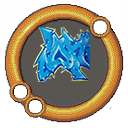
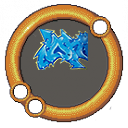
affiche score

Changed region(s): [[0.25, 0.1875, 0.7188, 0.6562]]

diff --git a/Java/src/pla/Jeu.java b/Java/src/pla/Jeu.java
@@ -39,6 +39,8 @@ public class Jeu extends BasicGameState {
 	private Image inventaire_bleu,inventaire_bleu_eau,inventaire_bleu_bombe,inventaire_bleu_bike,inventaire_bleu_eau_bike,inventaire_bleu_bombe_bike;
 	private Image score_rouge, score_bleu;
 	
+	int rouge_score, bleu_score;
+	String rouge_score1, bleu_score1;
 	//private static final int P_BAR_X = 15;
 	//private static final int P_BAR_Y = 25;
 
@@ -224,9 +226,18 @@ public class Jeu extends BasicGameState {
 		
 		//afficher score
 		if (gc.getInput().isKeyDown(Input.KEY_TAB)) {
-			g.resetTransform();  
+			g.resetTransform();
+			bleu_score=getPersonnageParType(TypePersonnage.BLEU).compterScore(map);
+			rouge_score=getPersonnageParType(TypePersonnage.ROUGE).compterScore(map);
+			bleu_score1=Integer.toString(bleu_score);
+			rouge_score1=Integer.toString(rouge_score);
 			g.drawImage(this.score_rouge, (gc.getWidth()/2)-80, (gc.getHeight()/2));
 			g.drawImage(this.score_bleu, (gc.getWidth()/2)+80, (gc.getHeight()/2));
+			g.setColor(Color.yellow);
+			g.drawString(this.bleu_score1, (gc.getWidth()/2)+140, (gc.getHeight()/2)+75);
+			g.drawString(this.rouge_score1, (gc.getWidth()/2)-24, (gc.getHeight()/2)+75);
+		
+		
 		}
 	}
 
